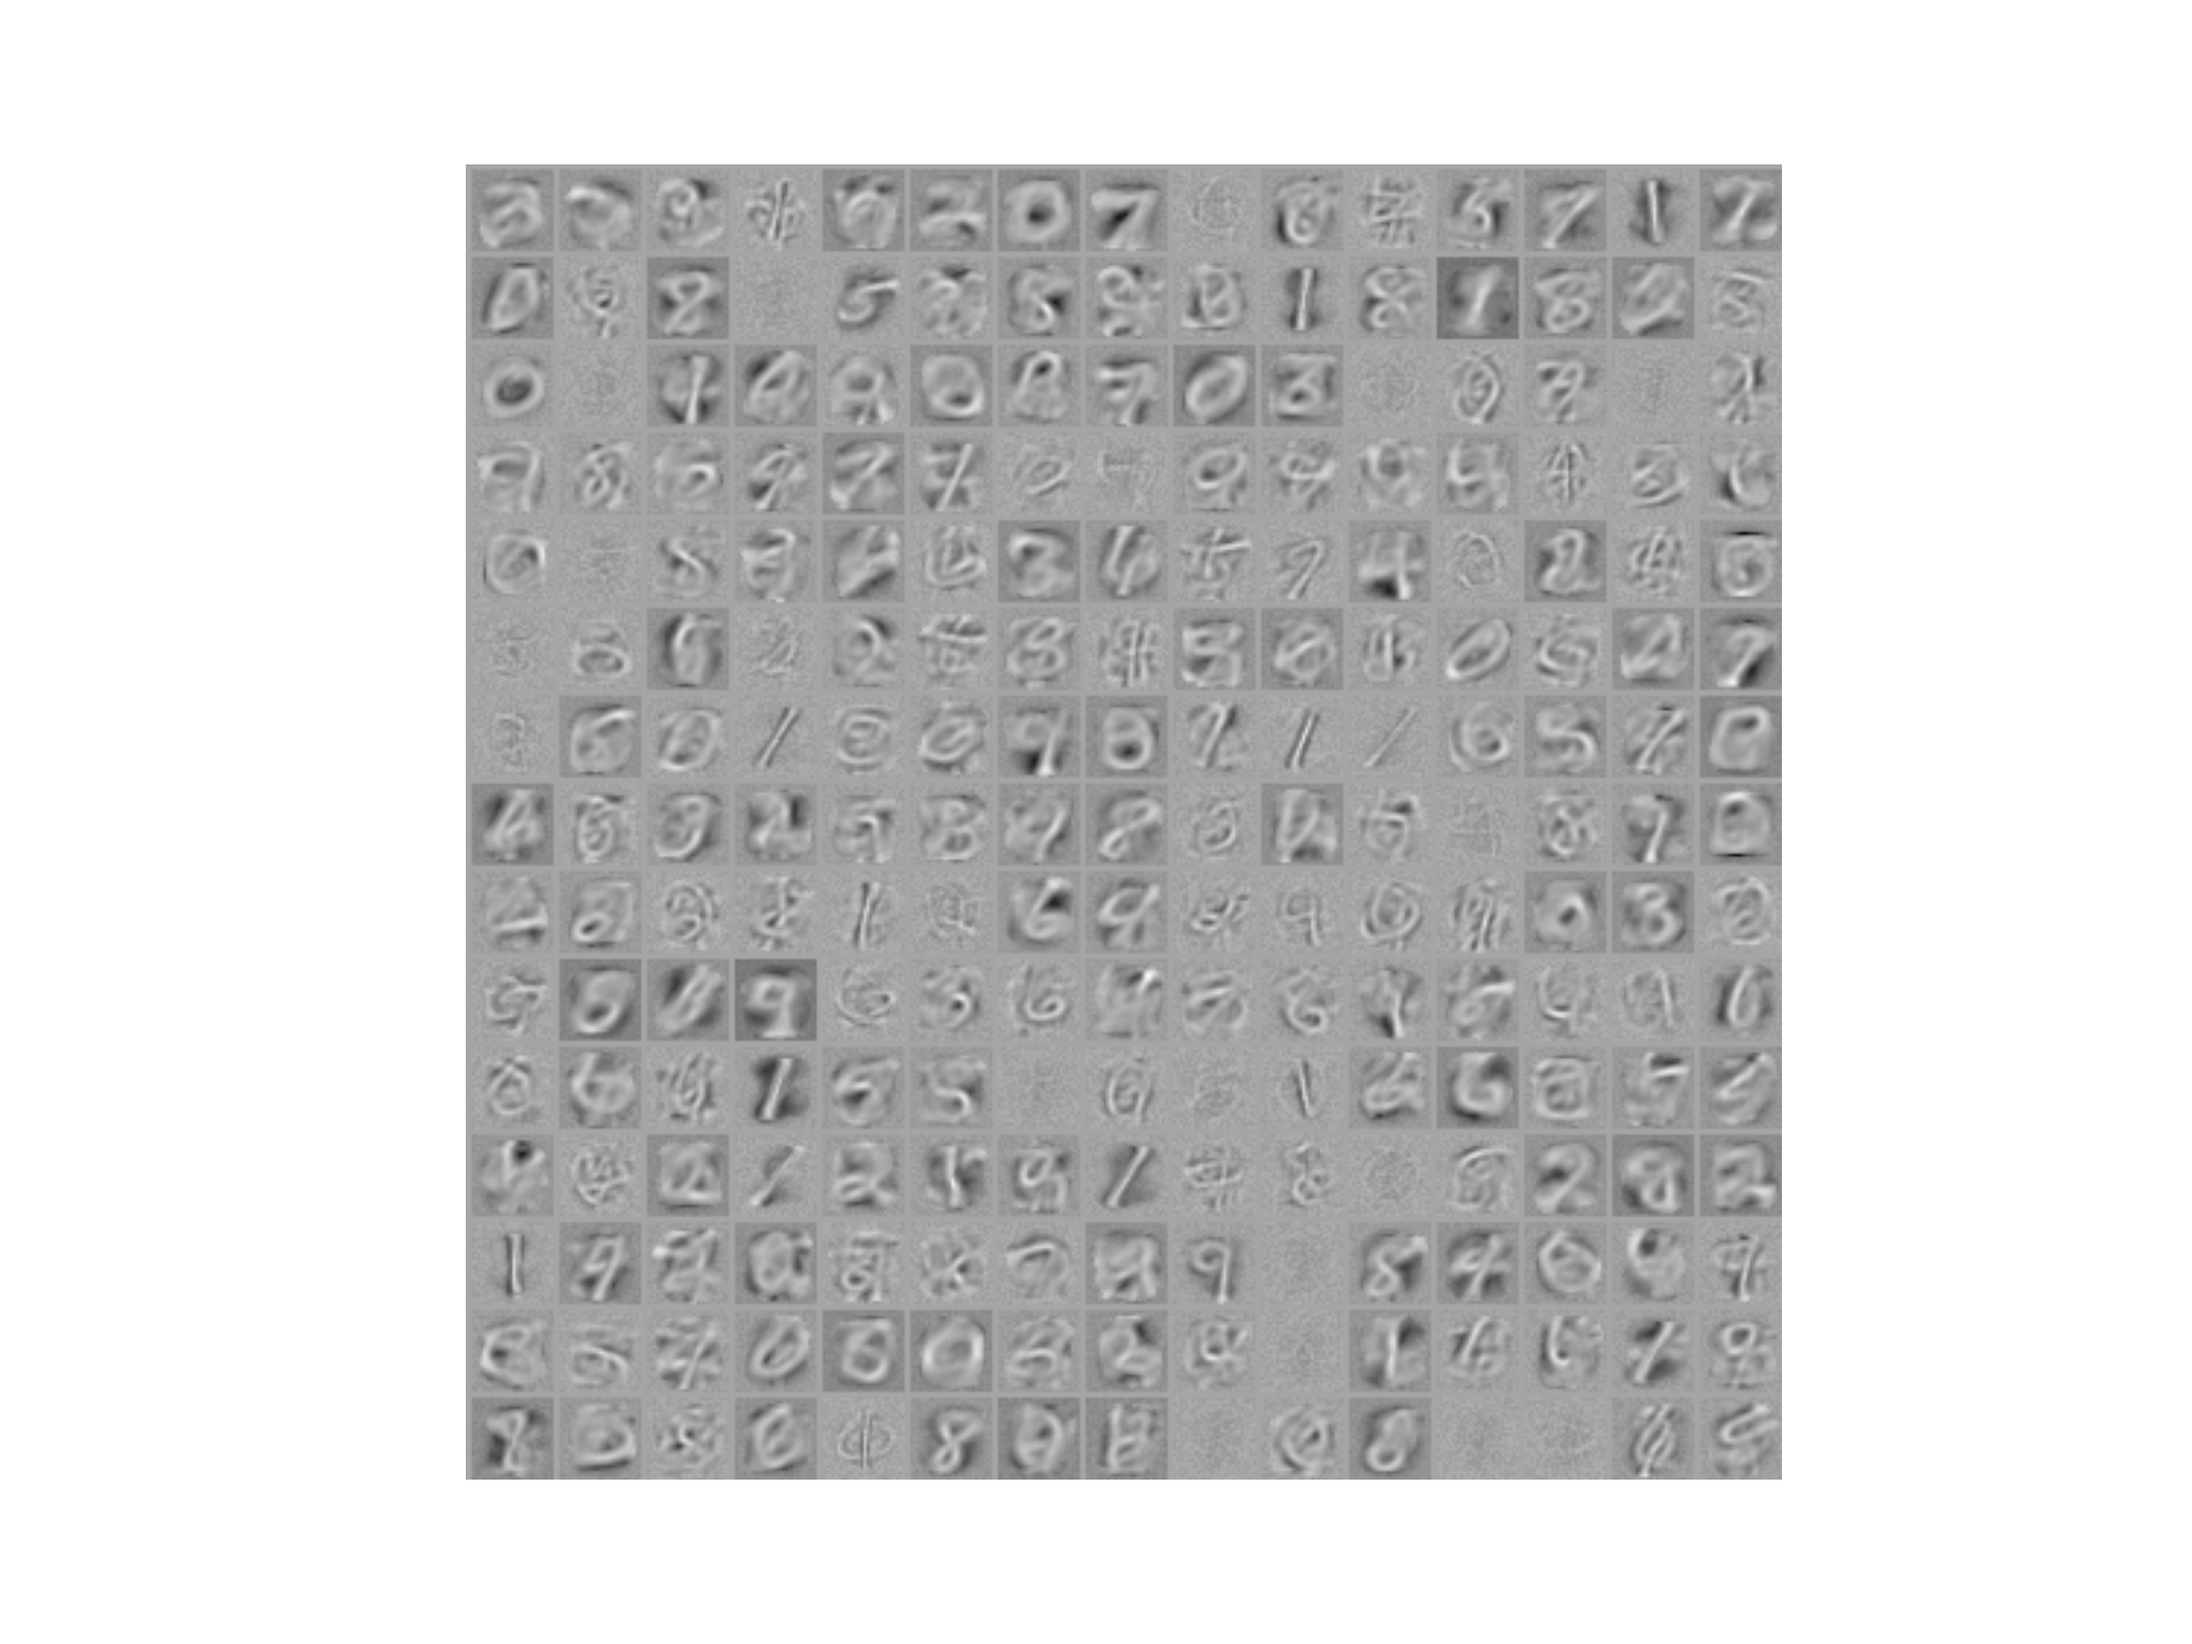
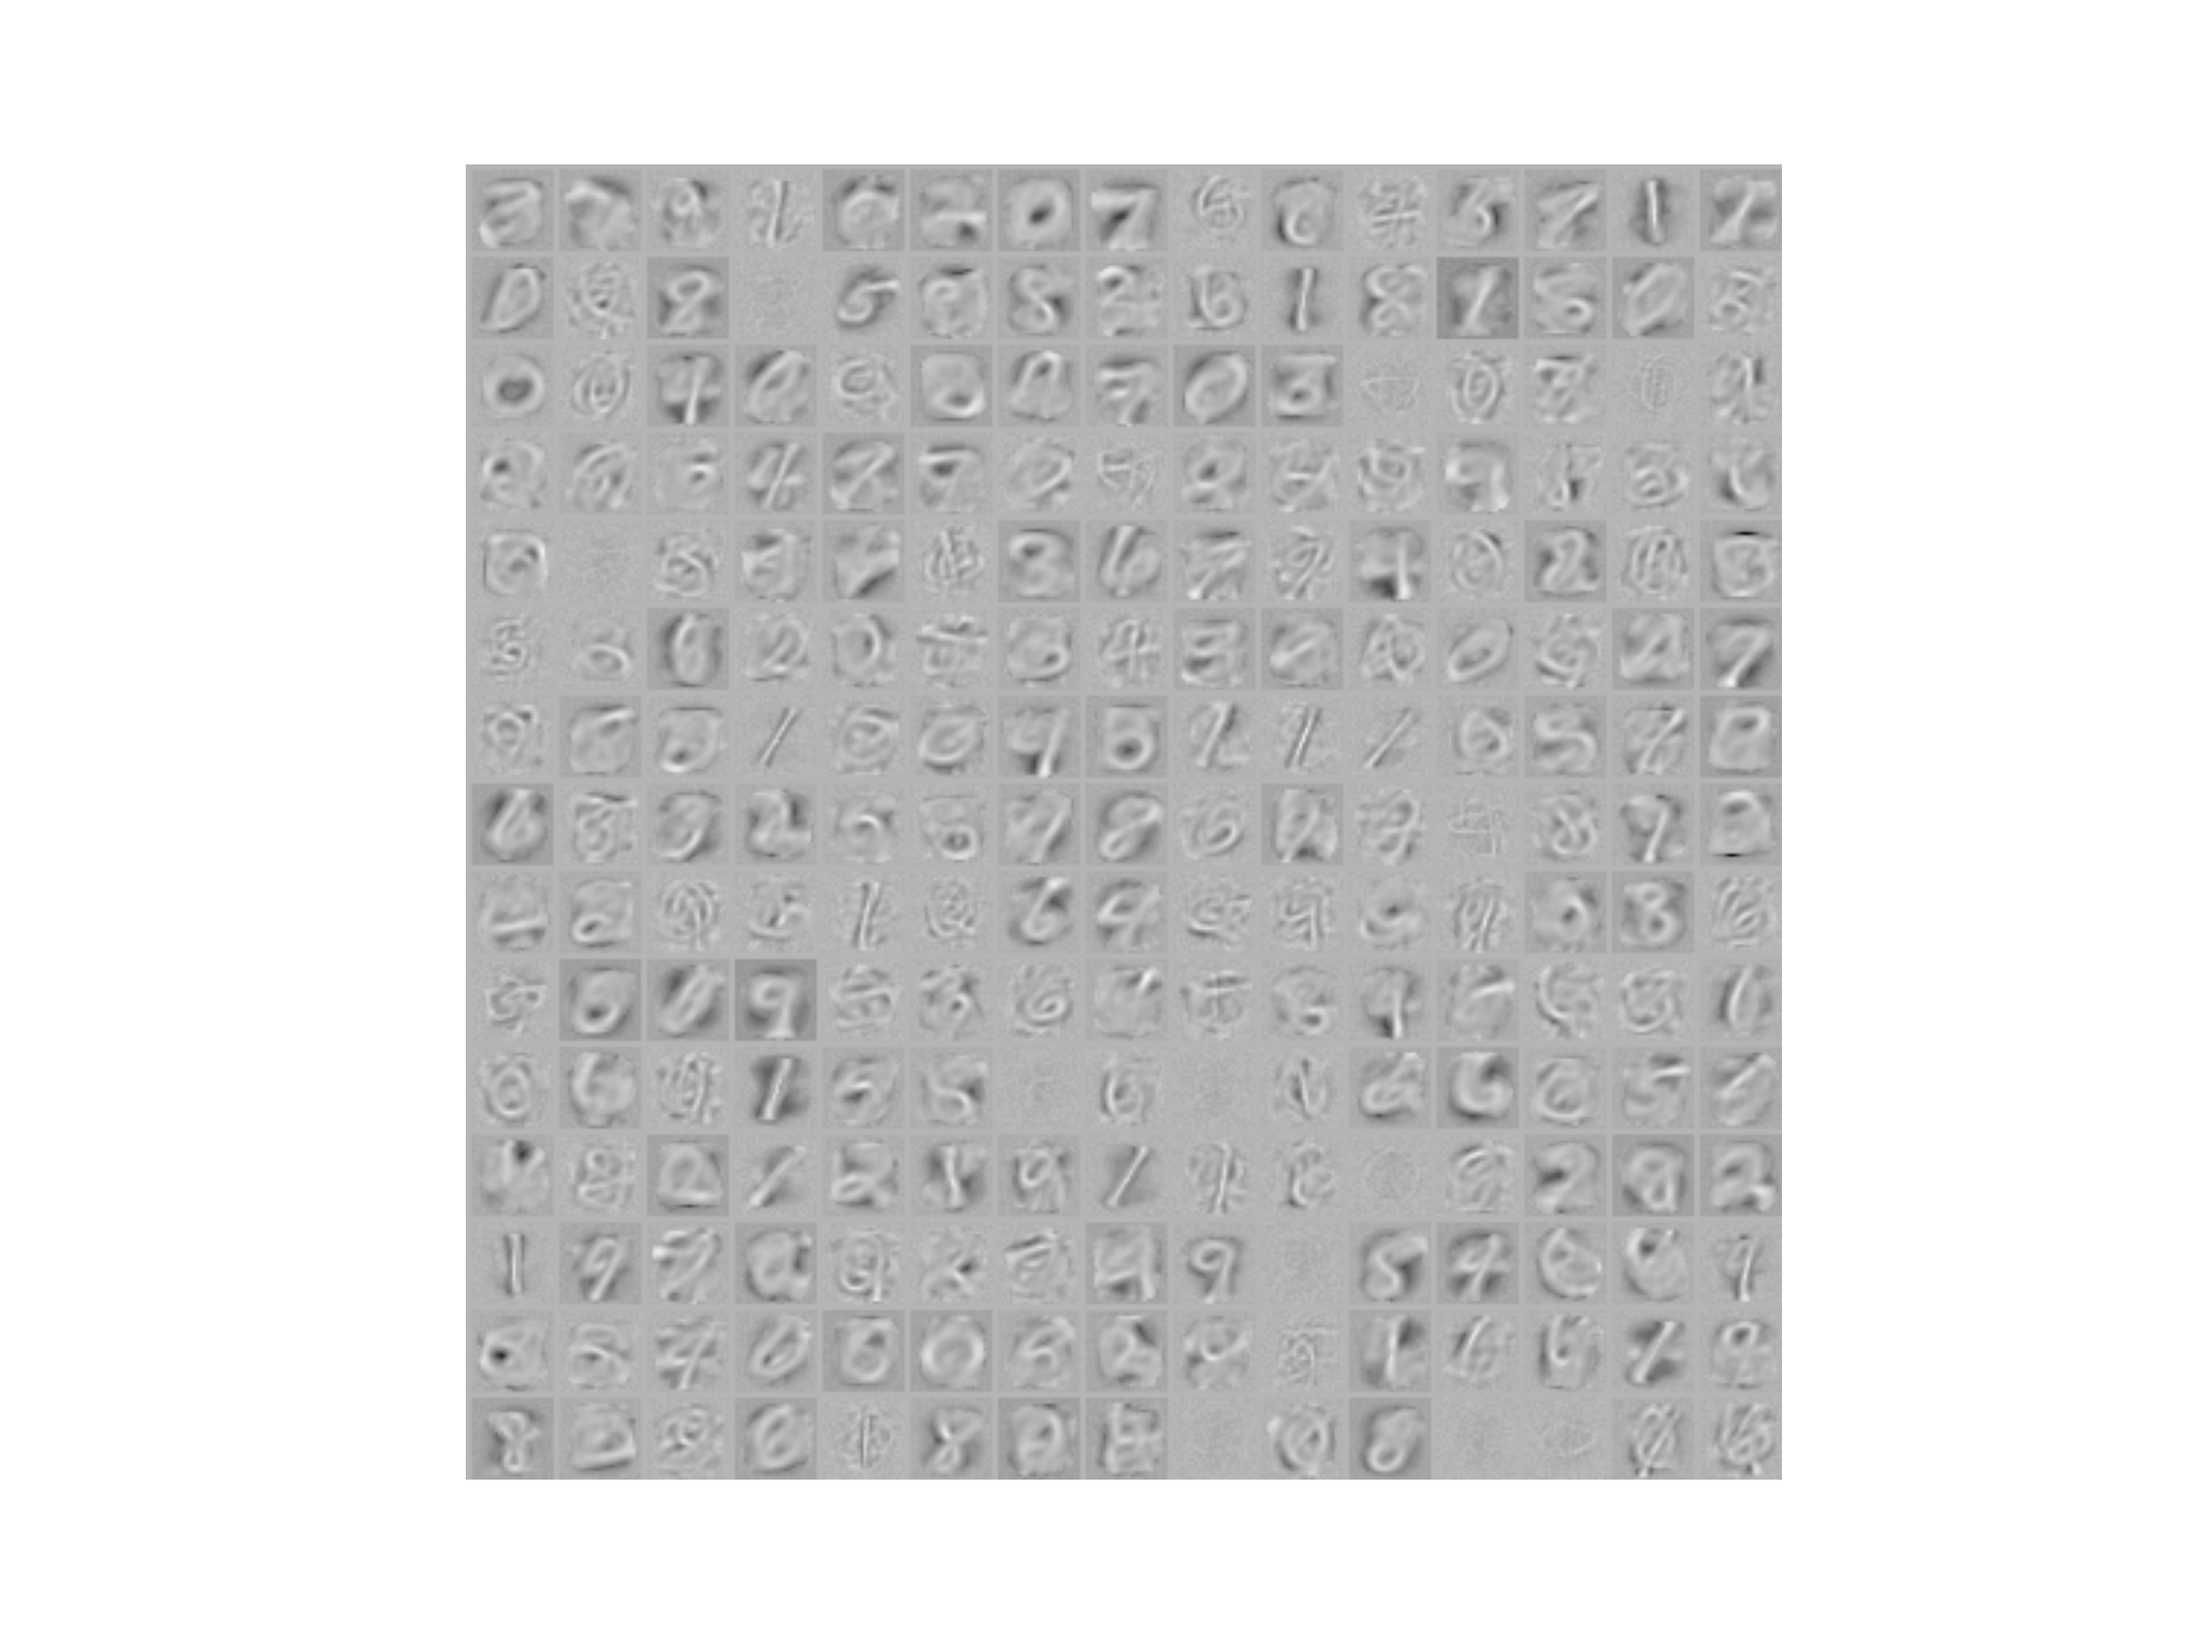
* Added AutoEncoder Filters for different sparsities

diff --git a/latent/auto_encoder.py b/latent/auto_encoder.py
@@ -270,7 +270,7 @@ if __name__ == '__main__':
     train_data, valid_data, test_data = utils.loadMinstDataSet(current_dir + "../mnist.pkl.gz")
     trainx, trainy = train_data
 
-    for n in [100, 225, 400, 784, 1024]:
+    for n in [1024, 784, 400, 225, 100]:
         for k in [0.05, 0.2, 1]:
     		train_climin(trainx, nhidden=n, sparsity=True, lambda_param=k)
 
